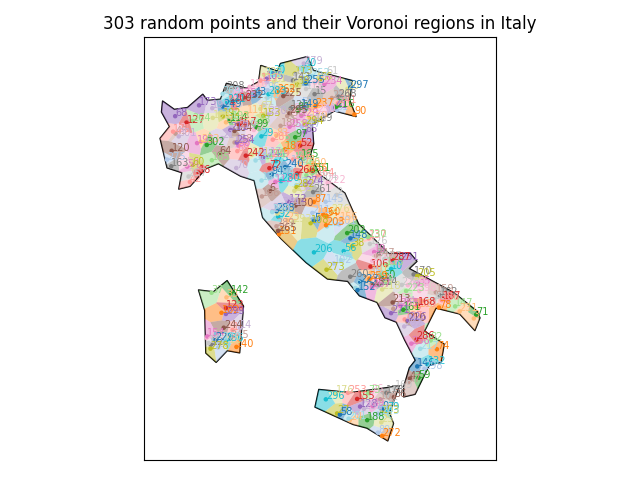
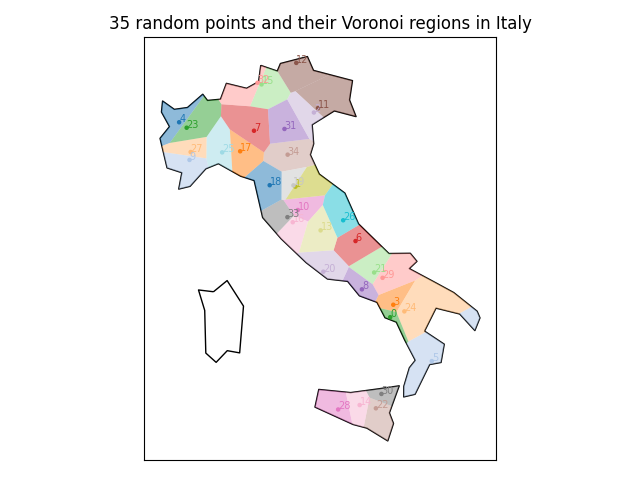
speed improvements for filling up step

Changed region(s): [[0.25, 0.0938, 0.75, 0.9375], [0.1562, 0.0312, 0.8438, 0.0625], [0.3125, 0.5938, 0.4062, 0.75]]

diff --git a/geovoronoi/_voronoi.py b/geovoronoi/_voronoi.py
@@ -111,68 +111,6 @@ def voronoi_regions_from_coords(coords, geo_shape):
     return region_polys, region_pts
 
 
-# def region_polygons_from_voronoi(vor, geom, return_point_assignments=False):
-#     center = np.array(MultiPoint(vor.points).convex_hull.centroid)
-#
-#     geom_bb = box(*geom.bounds)
-#     region_linestrings = defaultdict(list)
-#     region_pts = defaultdict(list)
-#
-#     for i_pt, i_region in enumerate(vor.point_region):
-#         region_pts[i_region].append(i_pt)
-#
-#     for pointidx, simplex in zip(vor.ridge_points, vor.ridge_vertices):
-#         simplex = np.asarray(simplex)
-#         for side in (0, 1):
-#             if side == 1:
-#                 pointidx = pointidx[::-1]
-#
-#             i_pt = pointidx[0]
-#             i_reg = vor.point_region[i_pt]
-#
-#             if np.all(simplex >= 0):       # full finite polygon line
-#                 region_linestrings[i_reg].append(LineString(vor.vertices[simplex]))
-#             else:   # "loose ridge": contains infinite Voronoi vertex
-#                 i = simplex[simplex >= 0][0]  # finite end Voronoi vertex
-#
-#                 t = vor.points[pointidx[1]] - vor.points[pointidx[0]]  # tangent
-#                 t /= np.linalg.norm(t)
-#                 n = np.array([-t[1], t[0]])  # normal
-#
-#                 midpoint = vor.points[pointidx].mean(axis=0)
-#                 direction = np.sign(np.dot(midpoint - center, n)) * n
-#                 #direction = direction / np.linalg.norm(direction)   # to unit vector
-#
-#                 isects = []
-#                 for i_ext_coord in range(len(geom_bb.exterior.coords) - 1):
-#                     isect = line_segment_intersection(midpoint, direction,
-#                                                       np.array(geom_bb.exterior.coords[i_ext_coord]),
-#                                                       np.array(geom_bb.exterior.coords[i_ext_coord + 1]))
-#                     if isect is not None:
-#                         isects.append(isect)
-#
-#                 assert isects, 'far point must intersect with surrounding geometry from `geo_shape`'
-#
-#                 if len(isects) == 1:
-#                     far_point = isects[0]
-#                 else:
-#                     closest_isect_idx = np.argmin(np.linalg.norm(midpoint - isects, axis=1))
-#                     far_point = isects[closest_isect_idx]
-#
-#                 region_linestrings[i_reg].append(LineString(np.vstack((vor.vertices[i], far_point))))
-#
-#     region_polys = {}
-#     for i_reg, linestrings in region_linestrings.items():
-#         p = list(polygonize(linestrings))
-#         # TODO: check p
-#         region_polys[i_reg] = p[0] if p else None
-#
-#     if return_point_assignments:
-#         return region_polys, region_pts
-#     else:
-#         return region_polys
-
-
 def region_polygons_from_voronoi(vor, geom, return_point_assignments=False):
     geom_bb = box(*geom.bounds)
     center = np.array(MultiPoint(vor.points).convex_hull.centroid)
@@ -181,6 +119,10 @@ def region_polygons_from_voronoi(vor, geom, return_point_assignments=False):
     region_pts = defaultdict(list)
     region_neighbor_pts = defaultdict(set)
     region_polys = {}
+
+    logger.info('generating polygons')
+
+    covered_area = 0
     for i_reg, reg_vert in enumerate(vor.regions):
         pt_indices, = np.nonzero(vor.point_region == i_reg)
         if len(pt_indices) == 0:  # skip regions w/o points in them
@@ -247,9 +189,19 @@ def region_polygons_from_voronoi(vor, geom, return_point_assignments=False):
                                                                   'empty after  intersection with the surrounding ' \
                                                                   'geometry from `geo_shape`'
 
+        covered_area += p.area
+
         region_polys[i_reg] = p
 
-    for i_reg, p in region_polys.items():
+    uncovered_area_portion = (geom.area - covered_area) / geom.area
+    polys_iter = iter(region_polys.items())
+    while not np.isclose(uncovered_area_portion, 0) and uncovered_area_portion > 0:
+        try:
+            i_reg, p = next(polys_iter)
+        except StopIteration:
+            break
+        logger.info('will fill up %f%% uncovered area' % (uncovered_area_portion * 100))
+
         union_other_regions = cascaded_union([other_poly
                                               for i_other, other_poly in region_polys.items()
                                               if i_reg != i_other])
@@ -268,9 +220,14 @@ def region_polygons_from_voronoi(vor, geom, return_point_assignments=False):
                     center_to_center = LineString([p.centroid, diff_part.centroid])
                     if not any(center_to_center.crosses(region_polys[i_neighb]) for i_neighb in neighbor_regions):
                         add.append(diff_part)
+                        covered_area += (diff_part.area - p.area)
 
         if add:
             region_polys[i_reg] = cascaded_union([p] + add)
+
+        uncovered_area_portion = (geom.area - covered_area) / geom.area
+
+    logger.info('%f%% uncovered area left' % (uncovered_area_portion * 100))
 
     if return_point_assignments:
         return region_polys, region_pts

diff --git a/examples/toyexample.py b/examples/toyexample.py
@@ -1,3 +1,5 @@
+import logging
+
 import matplotlib.pyplot as plt
 import numpy as np
 
@@ -6,13 +8,18 @@ from shapely.geometry import Polygon
 from geovoronoi import voronoi_regions_from_coords
 from geovoronoi.plotting import subplot_for_map, plot_voronoi_polys_with_points_in_area
 
+logging.basicConfig(level=logging.INFO)
+geovoronoi_log = logging.getLogger('geovoronoi')
+geovoronoi_log.setLevel(logging.INFO)
+geovoronoi_log.propagate = True
+
 #%%
 
-points = np.array([[0, 0], [0, 1], [0, 2],
-                   [1, 0], [1, 1], [1, 2],
-                   [2, 0], [2, 1], [2, 2]])
+# points = np.array([[0, 0], [0, 1], [0, 2],
+#                    [1, 0], [1, 1], [1, 2],
+#                    [2, 0], [2, 1], [2, 2]])
 
-#points = np.array([[1, 1], [1.1, 0.9], [1.15, 0.8], [2.5, 0]])
+points = np.array([[1, 1], [1.1, 0.9], [1.15, 0.8], [2.5, 0]])
 
 shape = Polygon([[-1, -1], [3, -1], [3, 3], [-1, 3]])
 

diff --git a/examples/random_points_across_italy.py b/examples/random_points_across_italy.py
@@ -13,7 +13,6 @@ from pprint import pprint
 import matplotlib.pyplot as plt
 import numpy as np
 import geopandas as gpd
-from shapely.geometry import Polygon, box
 
 from geovoronoi import coords_to_points, voronoi_regions_from_coords
 from geovoronoi.plotting import subplot_for_map, plot_voronoi_polys_with_points_in_area
@@ -26,7 +25,7 @@ geovoronoi_log.propagate = True
 
 #%%
 
-N_POINTS = 1000
+N_POINTS = 100
 COUNTRY = 'Italy'
 
 np.random.seed(123)
@@ -75,7 +74,6 @@ fig, ax = subplot_for_map()
 
 plot_voronoi_polys_with_points_in_area(ax, area_shape, poly_shapes, pts, poly_to_pt_assignments,
                                        point_labels=list(map(str, range(len(pts)))))
-                                       #voronoi_labels=list(map(str, poly_to_pt_assignments.keys())))
 
 ax.set_title('%d random points and their Voronoi regions in %s' % (len(pts), COUNTRY))
 
